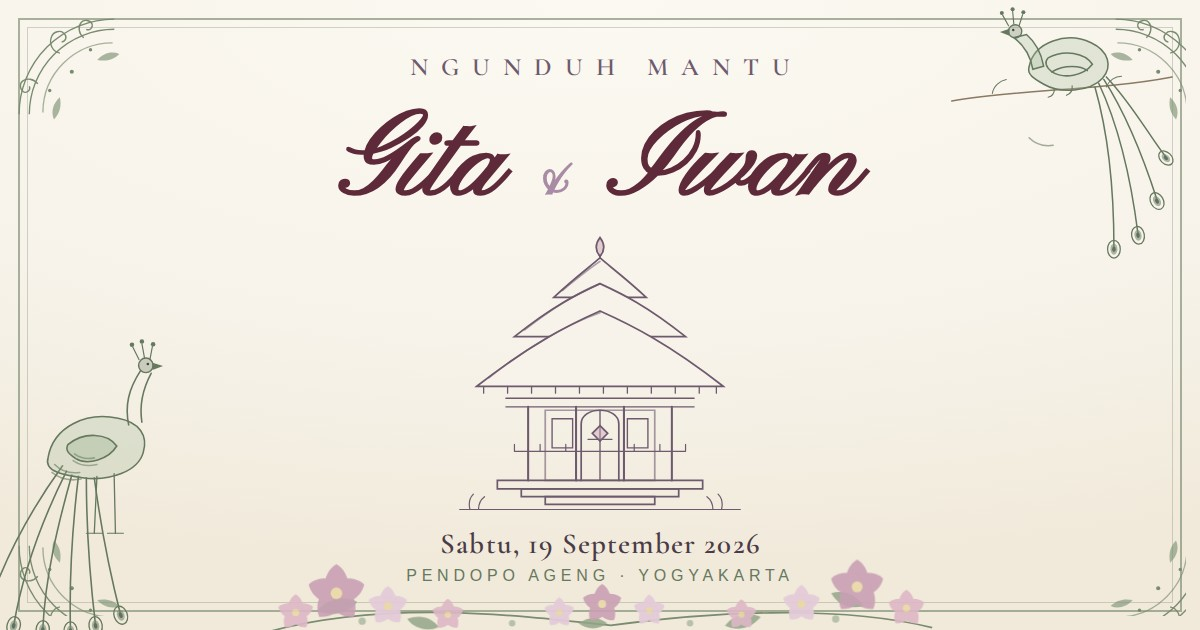
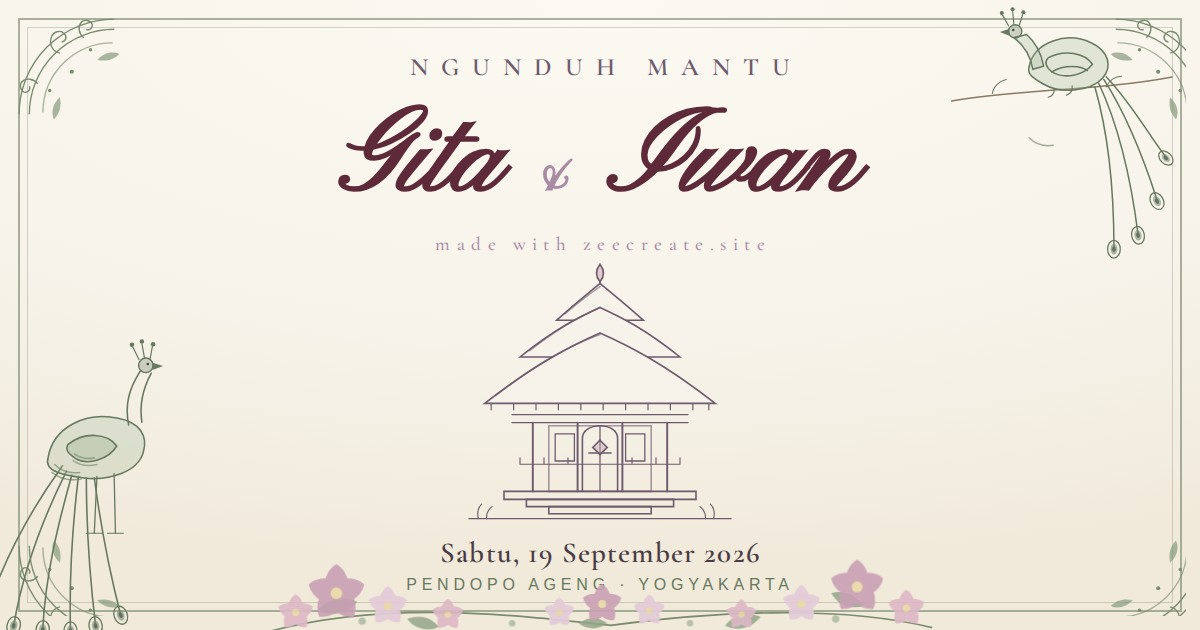
fix: og image diarahkan ke domain live digital.zeecreate.site

Changed region(s): [[0.3392, 0.3619, 0.6783, 0.9349], [0.2775, 0.1508, 0.74, 0.3317]]

diff --git a/index.html b/index.html
@@ -9,15 +9,15 @@
 <meta property="og:site_name" content="Undangan Digital Gita &amp; Iwan">
 <meta property="og:title" content="Undangan Ngunduh Mantu Gita &amp; Iwan">
 <meta property="og:description" content="Undangan digital ngunduh mantu Gita Ayu Prameswari dan Iwan Setiawan, Sabtu 19 September 2026 di Pendopo Ageng Taman Budaya Yogyakarta.">
-<meta property="og:url" content="https://zyreejago.github.io/undangan-digital/">
-<meta property="og:image" content="https://zyreejago.github.io/undangan-digital/assets/og-image.jpg">
+<meta property="og:url" content="https://digital.zeecreate.site/">
+<meta property="og:image" content="https://digital.zeecreate.site/assets/og-image.jpg">
 <meta property="og:image:width" content="1200">
 <meta property="og:image:height" content="630">
 <meta property="og:image:type" content="image/jpeg">
 <meta name="twitter:card" content="summary_large_image">
 <meta name="twitter:title" content="Undangan Ngunduh Mantu Gita &amp; Iwan">
 <meta name="twitter:description" content="Undangan digital ngunduh mantu Gita Ayu Prameswari dan Iwan Setiawan, Sabtu 19 September 2026 di Pendopo Ageng Taman Budaya Yogyakarta.">
-<meta name="twitter:image" content="https://zyreejago.github.io/undangan-digital/assets/og-image.jpg">
+<meta name="twitter:image" content="https://digital.zeecreate.site/assets/og-image.jpg">
 <script>
   (function () {
     var seg = window.location.pathname.split("/").filter(Boolean);
